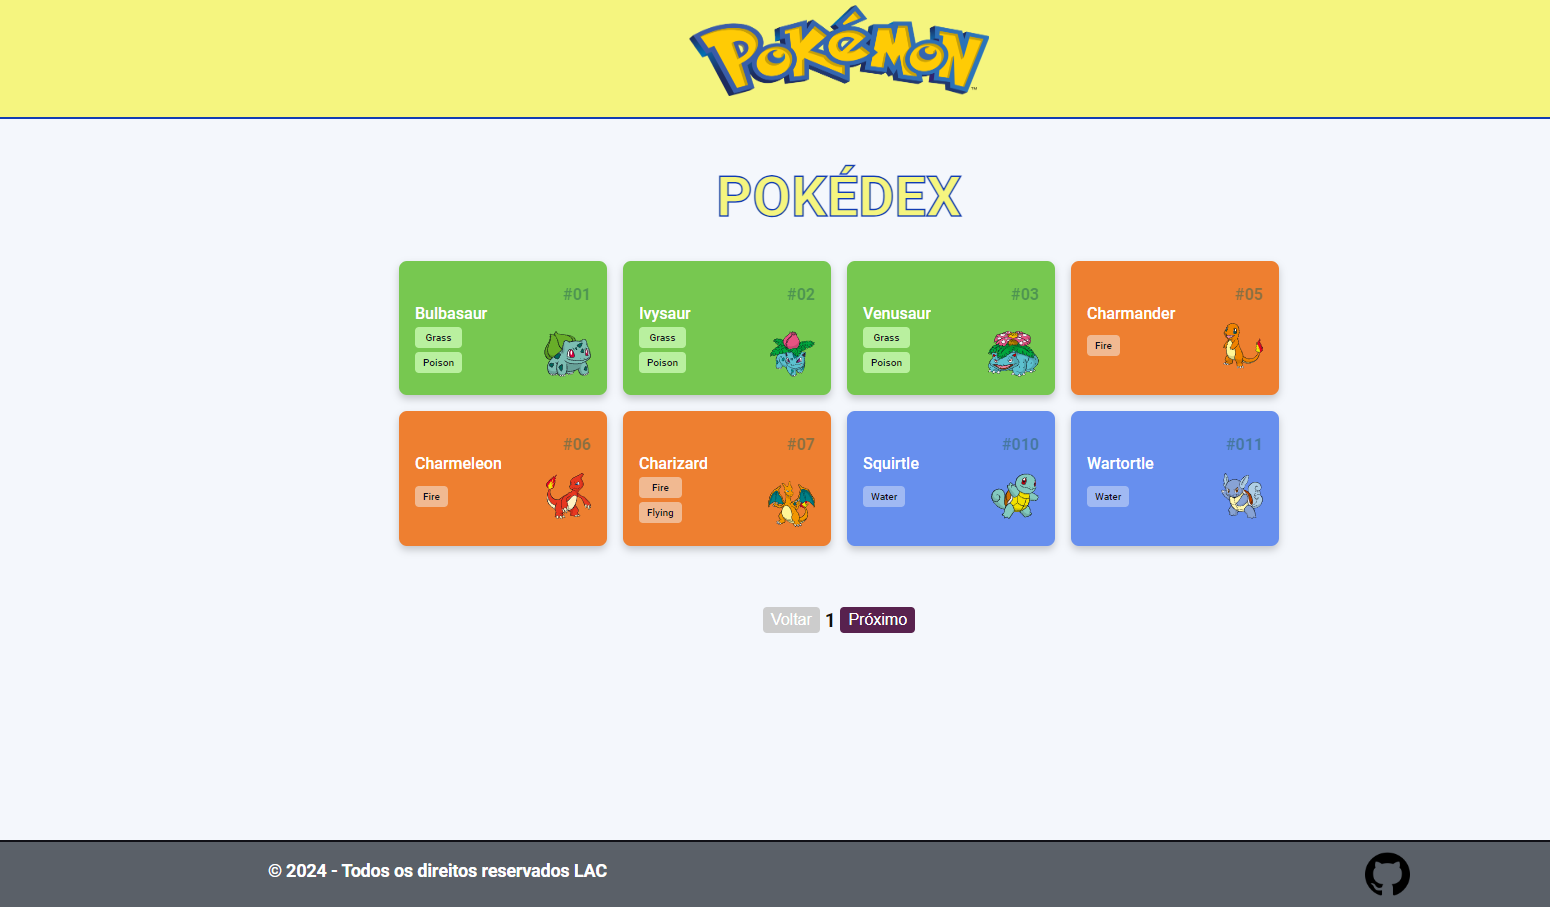
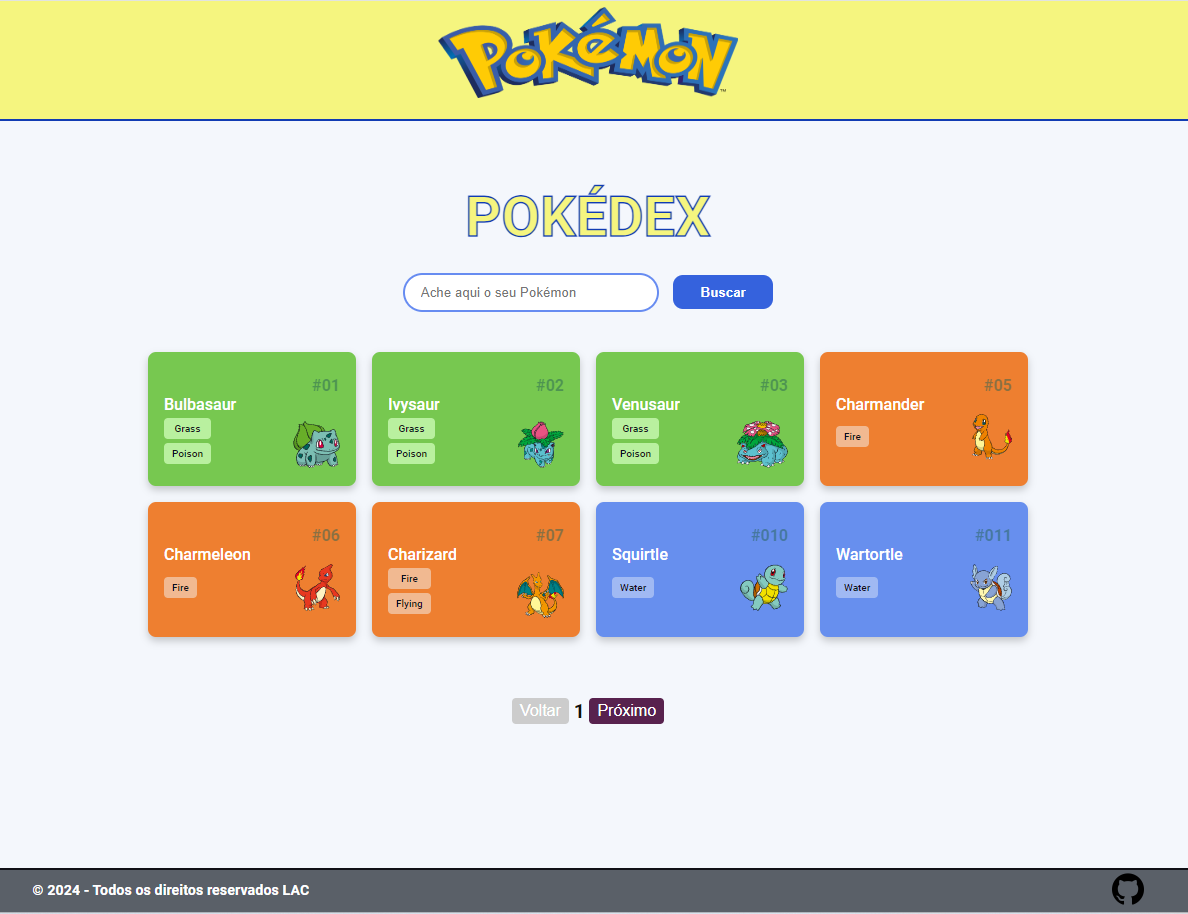
Atualização do README

diff --git a/README.md b/README.md
@@ -21,26 +21,32 @@ Aqui você vai encontrar um pequeno projeto em HTML, CSS e JavaScript.
 
 ## DESCRIÇÃO DO PROJETO :computer:
 
-Uso o JavaScript para criar uma Pokédex.
+Esse é um projeto básico de Pokédex.
 
 A Pokédex (palavra comum no vocabulário dos amantes de Pokémon) é uma enciclopédia virtual que detém todas as espécies de pokémon.
 
 Para fazer a lista de Pokémons, usei a **<a href="https://pokeapi.co/api/v2/pokemon/">API</a>** de pokémons, que é grátis.
 
-Usei a função Fetch/then para acessar a API e pegar as informaçãos dos pokémons. Também coloquei paginação.
+Usei a função Fetch/Then e Async/Await para acessar a API e pegar as informaçãos dos pokémons. Também adicionei dois botões e um contador para criar uma paginação.
 
 <br/>
 <div align="center">
- <img 
-    src="./src/assets/img/img_projects/pokedex_01.png"
+<img 
+    src="./src/assets/img/img_projects/pokedex_03.png"
     alt="imagem do projeto" width="150" border="2"
   />
   <img 
     src="./src/assets/img/img_projects/pokedex_02.png"
     alt="imagem do projeto" width="150" border="2"
   />
+   <img 
+    src="./src/assets/img/img_projects/pokedex_01.png"
+    alt="imagem do projeto" width="150" border="2"
+  />
 </div>
 <br/>
+
+Também é possível buscar um Pokémon especifico, usando o **input** de busca. 
 
 ### GIF DO PROJETO
 
@@ -50,7 +56,6 @@ Usei a função Fetch/then para acessar a API e pegar as informaçãos dos poké
     src="./src/assets/img/img_projects/git_projects.gif"
     alt="git do projeto" width="350" border="2"
   />
- 
 </div>
 <br/>
 <br/>
